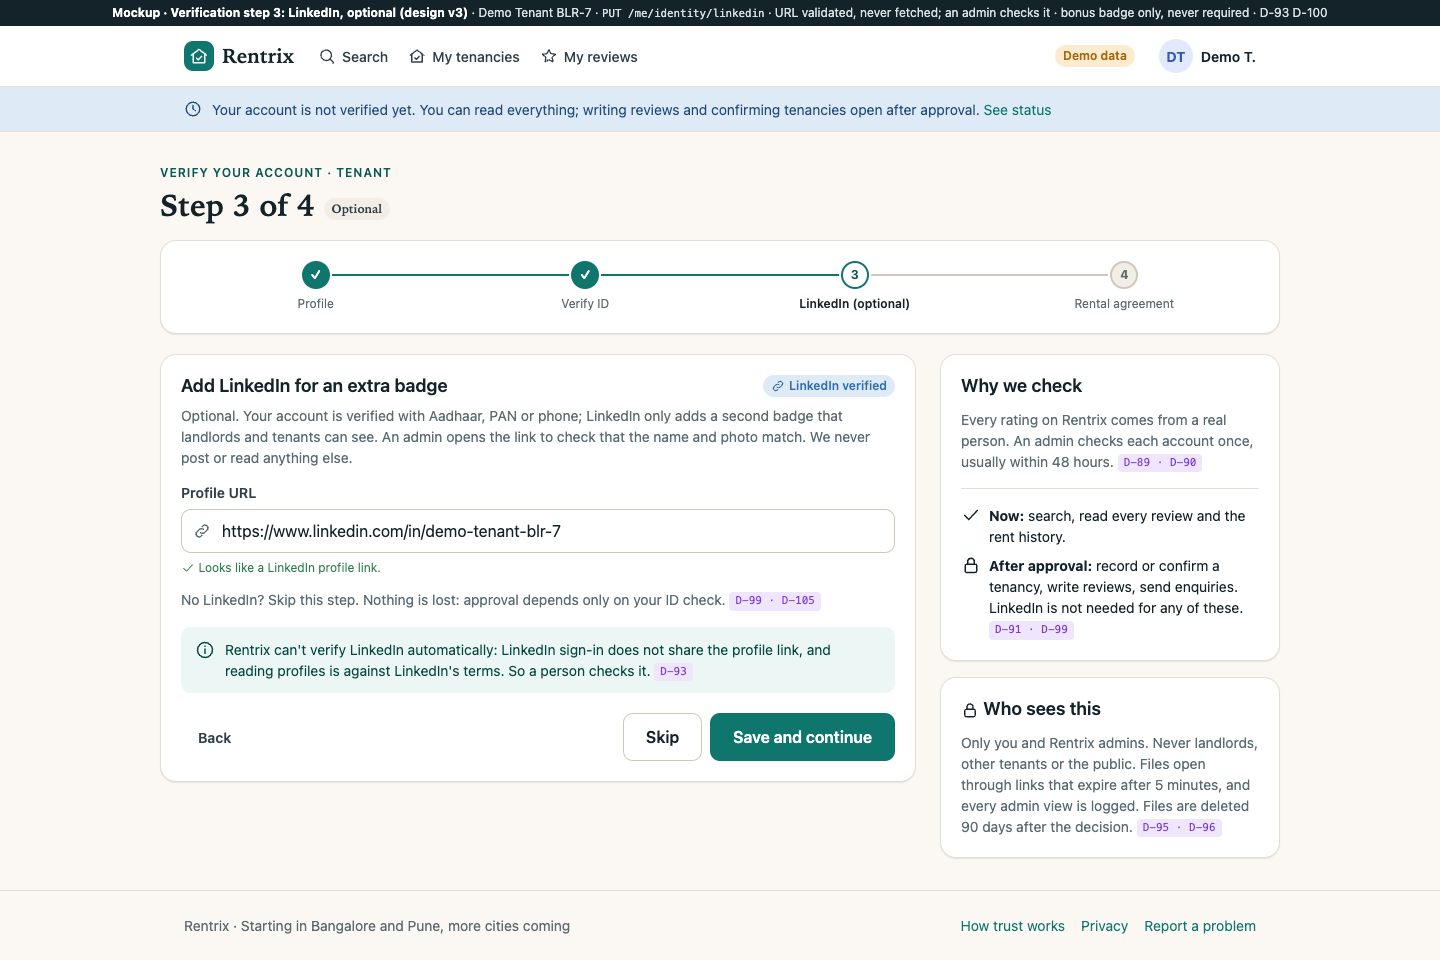
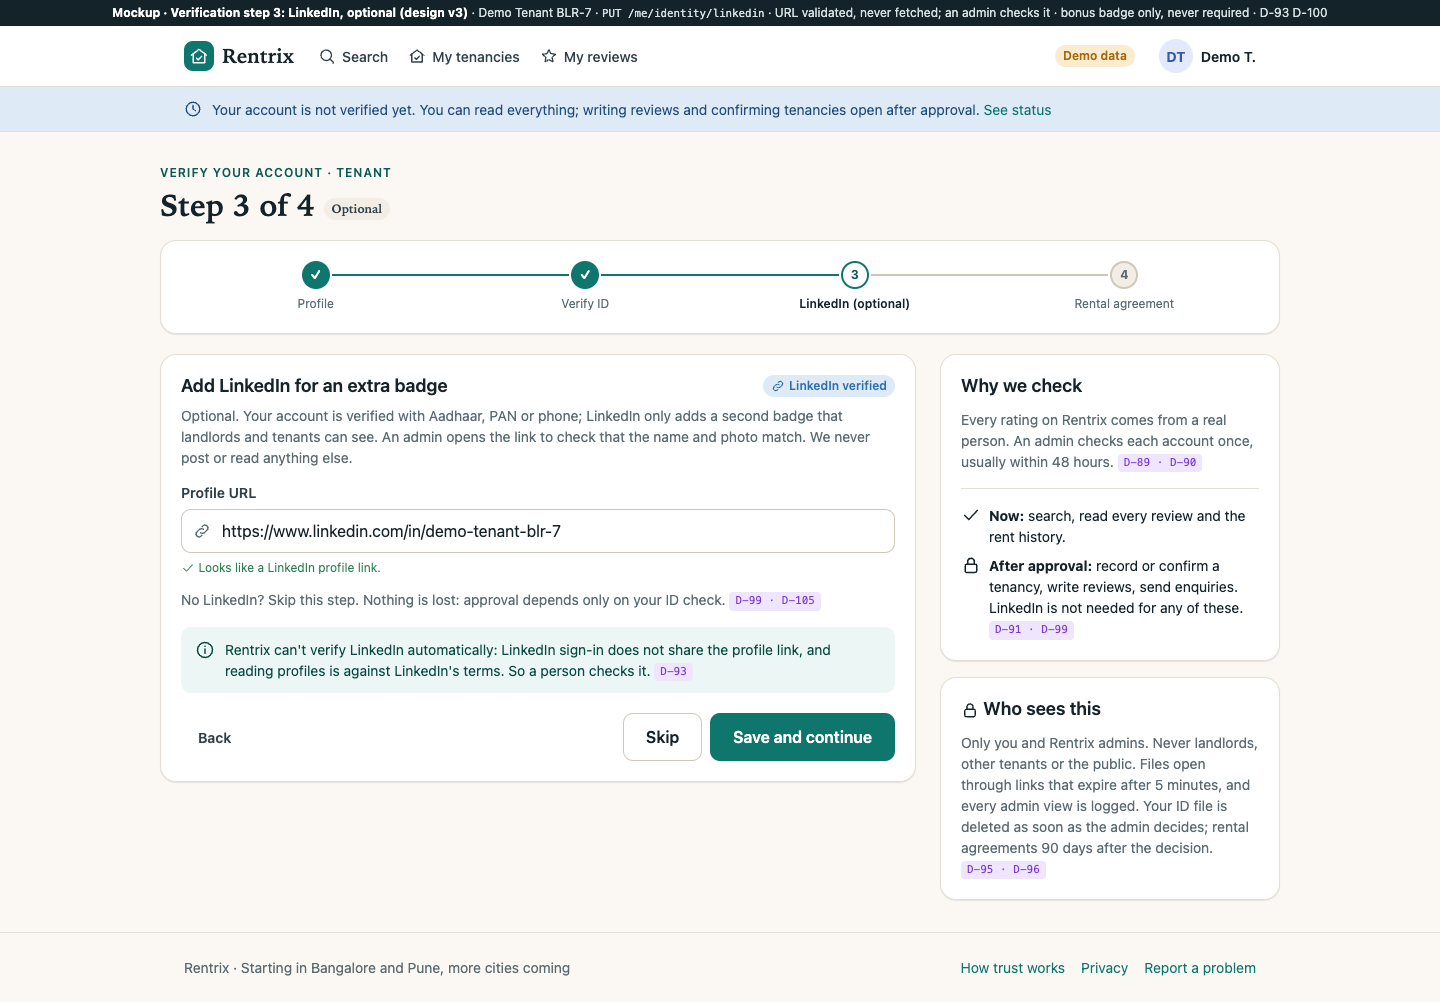
no-mistakes(review): Apply ID-file deletion rule to LinkedIn mockup and seed

diff --git a/rentrix-docs/design/mockups/verify-linkedin.html b/rentrix-docs/design/mockups/verify-linkedin.html
@@ -34,7 +34,7 @@
     <li><i data-icon="check" class="yes"></i><span><b>Now:</b> search, read every review and the rent history.</span></li>
     <li><i data-icon="lock" class="no"></i><span><b>After approval:</b> record or confirm a tenancy, write reviews, send enquiries. LinkedIn is not needed for any of these. <span class="spec">D-91 · D-99</span></span></li>
   </ul></div><div class="card"><h2 class="h3"><i data-icon="lock" data-size="18"></i> Who sees this</h2>
-  <p class="small muted">Only you and Rentrix admins. Never landlords, other tenants or the public. Files open through links that expire after 5 minutes, and every admin view is logged. Files are deleted 90 days after the decision. <span class="spec">D-95 · D-96</span></p></div></aside>
+  <p class="small muted">Only you and Rentrix admins. Never landlords, other tenants or the public. Files open through links that expire after 5 minutes, and every admin view is logged. Your ID file is deleted as soon as the admin decides; rental agreements 90 days after the decision. <span class="spec">D-95 · D-96</span></p></div></aside>
   </div>
 </main>
 <footer data-footer></footer>

diff --git a/rentrix-docs/PLAN.md b/rentrix-docs/PLAN.md
@@ -34,7 +34,7 @@ This file only orders the work. If a PR must deviate from the design, it updates
 | B7 | Enquiries + share links | `POST /properties/{id}/enquiries` grants landlord view of tenant profile until expiry (D-31, D-32). `/me/enquiries`, `/me/share-links`, `GET /share/{token}`. Sending an enquiry needs an approved tenant (D-91) | `enquiry/**`, `sharelink/**` | Grant opens/expires tenant profile; unapproved tenant 403; caps 10 open / 20 per 7 d; revoked link 404 | B5 | B6 | — |
 | B8 | Reports + moderation | `POST /reports` (D-49, D-50 incl. `PERSONAL_DATA` auto-hide text). Admin endpoints: reports queue + resolve, hide/restore review, void tenancy (D-36), suspend/reinstate user, document accept/reject, audit log (`moderation_actions`, D-51). Account deletion `DELETE /me` (D-58, also deletes verification files, D-96). Writes the rebuilt `moderation_actions` shape (verification-core migration) (`target_ref`, D-87) | `report/**`, `admin/**` | Report never hides (except D-50 case); void removes reviews + rent from aggregates/history; suspend blocks sign-in + refresh; non-admin 403; deletion keeps written reviews as "Former Rentrix user" | B6, B7, B11 | B9 | — |
 | B9 | Image + document storage | `ImageStorage` interface, `local` impl + `/media/**` + HMAC signed URLs, `s3` impl (MinIO-compatible) (D-66). Property images upload ≤10, sniff type, WebP re-encode + thumbnail, EXIF strip (D-67). Tenancy documents private (D-30) | `media/**`, `property/image/**`, `tenancy/document/**` | Bad content type 422; EXIF gone; keys random; signed URL expiry; S3 impl against MinIO Testcontainer | B4 (B5 for documents) | B6, B7, B8 | — |
-| B10 | Dev seed 4 BLR + 4 PNQ | Seeder per §16 (D-68, D-69): dev profile + `SEED_DEMO=true` + empty DB only; 8 published properties, 4 landlords, 12 tenants, demo admin with `ADMIN` in the dev-login picker; rent histories; reviews in all 3 directions, spread 1–5, one response, one `AWAITING_REVEAL`, one open report. Verification states per D-97: all seeded parties approved; pending landlord BLR-3, pending tenants PNQ-7 and BLR-7 (`DUPLICATE_ID`), rejected tenant BLR-8 with reason, pending listing Demo Annex I; placeholder "DEMO DOCUMENT" files. *(v3)* Per D-115: areas with PIN codes for every seed locality; one gated society per city with 2 towers × 2 wings (Demo Greens, Koramangala; Demo Meadows, Baner) holding Demo Residency A and Demo Towers E; pending society Demo Enclave proposed by Demo Annex I; identity rows spread over PAN, phone and masked Aadhaar, LinkedIn verified for 3 users; roll-up aggregates. Not in prod migrations | `seed/**` (dev-only beans) | Refuses under prod / non-empty DB; published counts per city = 4; every property has 3-direction published reviews; all emails `@example.test`, no phones (`users.phone` null, phone rows last 4 only); aggregates and roll-ups match recomputation; admin queues: 1 landlord, 2 tenant, 1 listing pending (with 1 proposed society); each city has ≥1 society with 2 towers and 2 wings each; every approved user is ID verified | B6, B7, B8, B9, B12, B13, **B14**, **B15**, **B16** | — | — |
+| B10 | Dev seed 4 BLR + 4 PNQ | Seeder per §16 (D-68, D-69): dev profile + `SEED_DEMO=true` + empty DB only; 8 published properties, 4 landlords, 12 tenants, demo admin with `ADMIN` in the dev-login picker; rent histories; reviews in all 3 directions, spread 1–5, one response, one `AWAITING_REVEAL`, one open report. Verification states per D-97: all seeded parties approved; pending landlord BLR-3, pending tenants PNQ-7 and BLR-7 (`DUPLICATE_ID`), rejected tenant BLR-8 with reason, pending listing Demo Annex I; placeholder "DEMO DOCUMENT" files only for pending ID checks, rental agreements and the property proof; decided ID checks are `PURGED` with no file (D-96). *(v3)* Per D-115: areas with PIN codes for every seed locality; one gated society per city with 2 towers × 2 wings (Demo Greens, Koramangala; Demo Meadows, Baner) holding Demo Residency A and Demo Towers E; pending society Demo Enclave proposed by Demo Annex I; identity rows spread over PAN, phone and masked Aadhaar, LinkedIn verified for 3 users; roll-up aggregates. Not in prod migrations | `seed/**` (dev-only beans) | Refuses under prod / non-empty DB; published counts per city = 4; every property has 3-direction published reviews; all emails `@example.test`, no phones (`users.phone` null, phone rows last 4 only); aggregates and roll-ups match recomputation; admin queues: 1 landlord, 2 tenant, 1 listing pending (with 1 proposed society); each city has ≥1 society with 2 towers and 2 wings each; every approved user is ID verified | B6, B7, B8, B9, B12, B13, **B14**, **B15**, **B16** | — | — |
 | B11 | Verification core (approval gate) *(v3)* | Verification-core migration (next free version, D-98): `verification_applications` (*(v3)* without the LinkedIn columns, D-114), `verification_events`, property review columns, `moderation_actions` rebuilt with `target_ref`. States `DRAFT → PENDING → APPROVED / REJECTED`, resubmit with `revision + 1`, 3 submits / 24 h (D-89, D-90). `/me/verification`, `POST .../submit`; `GET /me` verification summary. *(v3)* Submit needs ≥1 ID method `VERIFIED` or `PENDING` from B14; approve needs ≥1 `VERIFIED` and may decide pending PAN / Aadhaar in the same call (D-105); LinkedIn handling moved to B14. `ApprovalGuard.require(user, role)` reading the DB: `403 approval_required` (D-91) and *(v3)* `403 id_verification_required` when no ID method is verified, used by B4–B7. Admin decide endpoints for applications (`approve`, `reject`, `revoke`) with audit rows (D-87) and conflict check (D-88). Decision emails (D-65) | `verification/**`, `admin/**` (decisions), `db/migration/V<n>__verification_core.sql` | State machine incl. illegal transitions 409; resubmit after reject; submit without any ID method 422 `identity`; approve with only `PENDING` methods 422; guard denies DRAFT/PENDING/REJECTED, allows APPROVED + ID verified, denies APPROVED after the only method is revoked, reflects a decision without a new token; admin can't decide own application 403; every decision writes one audit row with reason; non-admin 403 | B3, **B14** | C1, W2, W3, B15 | — |
 | B12 | Verification documents *(v3)* | `verification_documents` (verification-documents migration, next free version, D-98; *(v3)* with `identity_verification_id`, D-114). `POST /me/documents` for `ID_PROOF` (*(v3)* `PAN` or `AADHAAR_MASKED` only, D-102, D-103), `RENTAL_AGREEMENT`, `PROPERTY_PROOF` through `ImageStorage` PRIVATE (D-95); *(v3)* `POST /me/identity/pan` and `/aadhaar` link the file to the B14 row (PAN format check, last 4 + HMAC, `DUPLICATE_ID`; Aadhaar last 4 only, 12-digit input refused, consent required); admin `verify` / `reject` / `revoke` for PAN, Aadhaar and LinkedIn with every PAN or Aadhaar decision (approve or reject) deleting its ID file at once (D-96); EXIF strip; owner `GET /me/documents/{id}/url` and admin `GET /admin/documents/{id}/url` (5-min signed, `VIEW_DOCUMENT` audit). `ID_HASH_KEY` fail-closed outside dev/test. Retention purge job for rental agreements and property proofs (D-96). Submit (B11) and listing submit (B4) now require their documents | `verification/document/**`, `media/**` (uses B9), `db/migration/V<n>__verification_documents.sql` | Full PAN absent from DB, logs and every response (grep test on captured logs); masked last 4 only; *(v3)* 12-digit Aadhaar input 422 and absent from logs; approve and reject each delete the ID file at once and keep last 4 + audit; passport type 422; another user's document 404; signed URL expires; duplicate number flags both; purge deletes the file and keeps last 4 + audit; start refused without `ID_HASH_KEY` in prod | B9, B11 | B8 | — |
 | B13 | Admin console API *(v3)* | `/admin/overview` queues (*(v3)* plus identity checks); approvals queue `GET /admin/applications` with filters; property listing `approve` / `reject` → `PUBLISHED` / `REJECTED` (D-92), *(v3)* approving the listing's `PENDING` areas / societies / towers / wings or pointing it at existing rows (D-109); *(v3)* `GET /admin/identity` queue; areas (with PIN codes) and societies / towers / wings CRUD with hide (`/admin/areas`, `/admin/societies`, D-108, D-109); records lists + detail with merged audit trail for users (by role), properties, tenancies, reviews (D-86); cities `GET/POST/PATCH /admin/cities` with activation audit (D-83); grant / revoke `ADMIN`, never self (D-19); `GET /admin/audit` by `targetRef`. Search over name / email / `public_id` / locality / building, filters per D-86, D-59 pagination | `admin/**`, `city/**` (admin), `property/**` (decisions) | Each list filter + search; listing approve publishes, reject keeps it hidden with reason; city created inactive, activation makes it appear in `GET /cities`, deactivation needs reason; self-grant 403; no endpoint returns a full ID number; audit trail order | B8, B12 | W8 | — |

diff --git a/rentrix-docs/architecture/SYSTEM_DESIGN.md b/rentrix-docs/architecture/SYSTEM_DESIGN.md
@@ -838,7 +838,7 @@ Every property has at least one tenancy with reviews in all three directions pub
   - Pending queue: **Demo Landlord BLR-3** (`LANDLORD`, `PENDING`, LinkedIn given, PAN uploaded); **Demo Tenant PNQ-7** (`TENANT`, `PENDING`, no LinkedIn, rental agreement; *design v3*: phone verified + masked Aadhaar pending instead of PAN, D-115); **Demo Tenant BLR-7** (`TENANT`, `PENDING`, LinkedIn given, PAN + rental agreement, flagged `DUPLICATE_ID` because its fake PAN matches BLR-8's, to show the flag).
   - Rejected: **Demo Tenant BLR-8** (`TENANT`, `REJECTED`, `ID_UNREADABLE`, note "The PAN photo is blurred. Upload a sharper photo.", can resubmit).
   - Pending listing: **Demo Annex I** (Jayanagar, Bangalore, 1BHK, landlord BLR-2, `PENDING_REVIEW`, one property proof). It is not published, so the 4 + 4 published demo properties and every per-city count stay as they are.
-  - Seed documents are generated placeholder images that read "DEMO DOCUMENT · NOT REAL"; their numbers are fake (last 4 like `001D`) and their HMACs come from the dev `ID_HASH_KEY`. These users have no tenancies and no reviews. Exact review texts live in the seeder source and stay generic (no names, phones or addresses, per D-43).
+  - Seed documents are generated placeholder images that read "DEMO DOCUMENT · NOT REAL"; their numbers are fake (last 4 like `001D`) and their HMACs come from the dev `ID_HASH_KEY`. Under D-96 only `PENDING` ID checks have an ID file (BLR-3 and BLR-7 PAN, PNQ-7 masked Aadhaar); every decided ID check (the approved users, BLR-8's rejected PAN) has its `ID_PROOF` row `PURGED` with no file. Rental agreements and the property proof keep their placeholder files. These users have no tenancies and no reviews. Exact review texts live in the seeder source and stay generic (no names, phones or addresses, per D-43).
 
 - **D-115** Design-v3 seed additions (the 4 + 4 published properties and every per-city count stay as they are):
   - **Areas** (real locality names and PIN codes, D-69): BLR Koramangala (560034, 560095), HSR Layout (560102), Whitefield (560066), Indiranagar (560038), Jayanagar (560011, 560041); PNQ Baner (411045), Hinjewadi (411057), Kothrud (411038), Viman Nagar (411014). Every seeded property points at its area.
@@ -846,7 +846,7 @@ Every property has at least one tenancy with reviews in all three directions pub
   - **Proposed location**: the pending listing Demo Annex I proposes a new society **Demo Enclave** (Jayanagar) with Tower 1, both `PENDING`, so the listing queue shows a location proposal (D-109).
   - **Owners with several properties**: BLR-1 (Residency A, Heights B), BLR-2 (Villa C, Studio D, pending Annex I), PNQ-1 (Towers E, Park F), PNQ-2 (Court G, Nest H), so every owner profile shows a portfolio and an `OWNER_HOMES` roll-up.
   - **Identity methods** (D-99–D-103), replacing the design-v2 LinkedIn checks of D-97: every approved seeded user has at least one `VERIFIED` ID method, spread over the three (landlords BLR-1 PAN, BLR-2 masked Aadhaar, PNQ-1 PAN, PNQ-2 phone; tenants alternate PAN, phone and masked Aadhaar). `LINKEDIN` is `VERIFIED` for BLR-1, PNQ-2 and Demo Tenant PNQ-2 only, so both badge states appear. Pending queue: BLR-3 (PAN and LinkedIn `PENDING`), BLR-7 (PAN `PENDING`, `DUPLICATE_ID` with BLR-8), PNQ-7 (phone `VERIFIED`, masked Aadhaar `PENDING`, so "ID verified" shows while the application waits, D-105). Rejected: BLR-8 (PAN `REJECTED`, `ID_UNREADABLE`).
-  - Seeded phone rows store only a fake `last4` (e.g. `0001`) and an HMAC from the dev key; `users.phone` stays null, so the seed still has no phone numbers (D-69). Seeded Aadhaar rows have fake last 4 like `0007` and a placeholder "MASKED AADHAAR · DEMO" file.
+  - Seeded phone rows store only a fake `last4` (e.g. `0001`) and an HMAC from the dev key; `users.phone` stays null, so the seed still has no phone numbers (D-69). Seeded Aadhaar rows have fake last 4 like `0007`; only the pending one (PNQ-7) has a placeholder "MASKED AADHAAR · DEMO" file (D-96).
 
 ---
 
